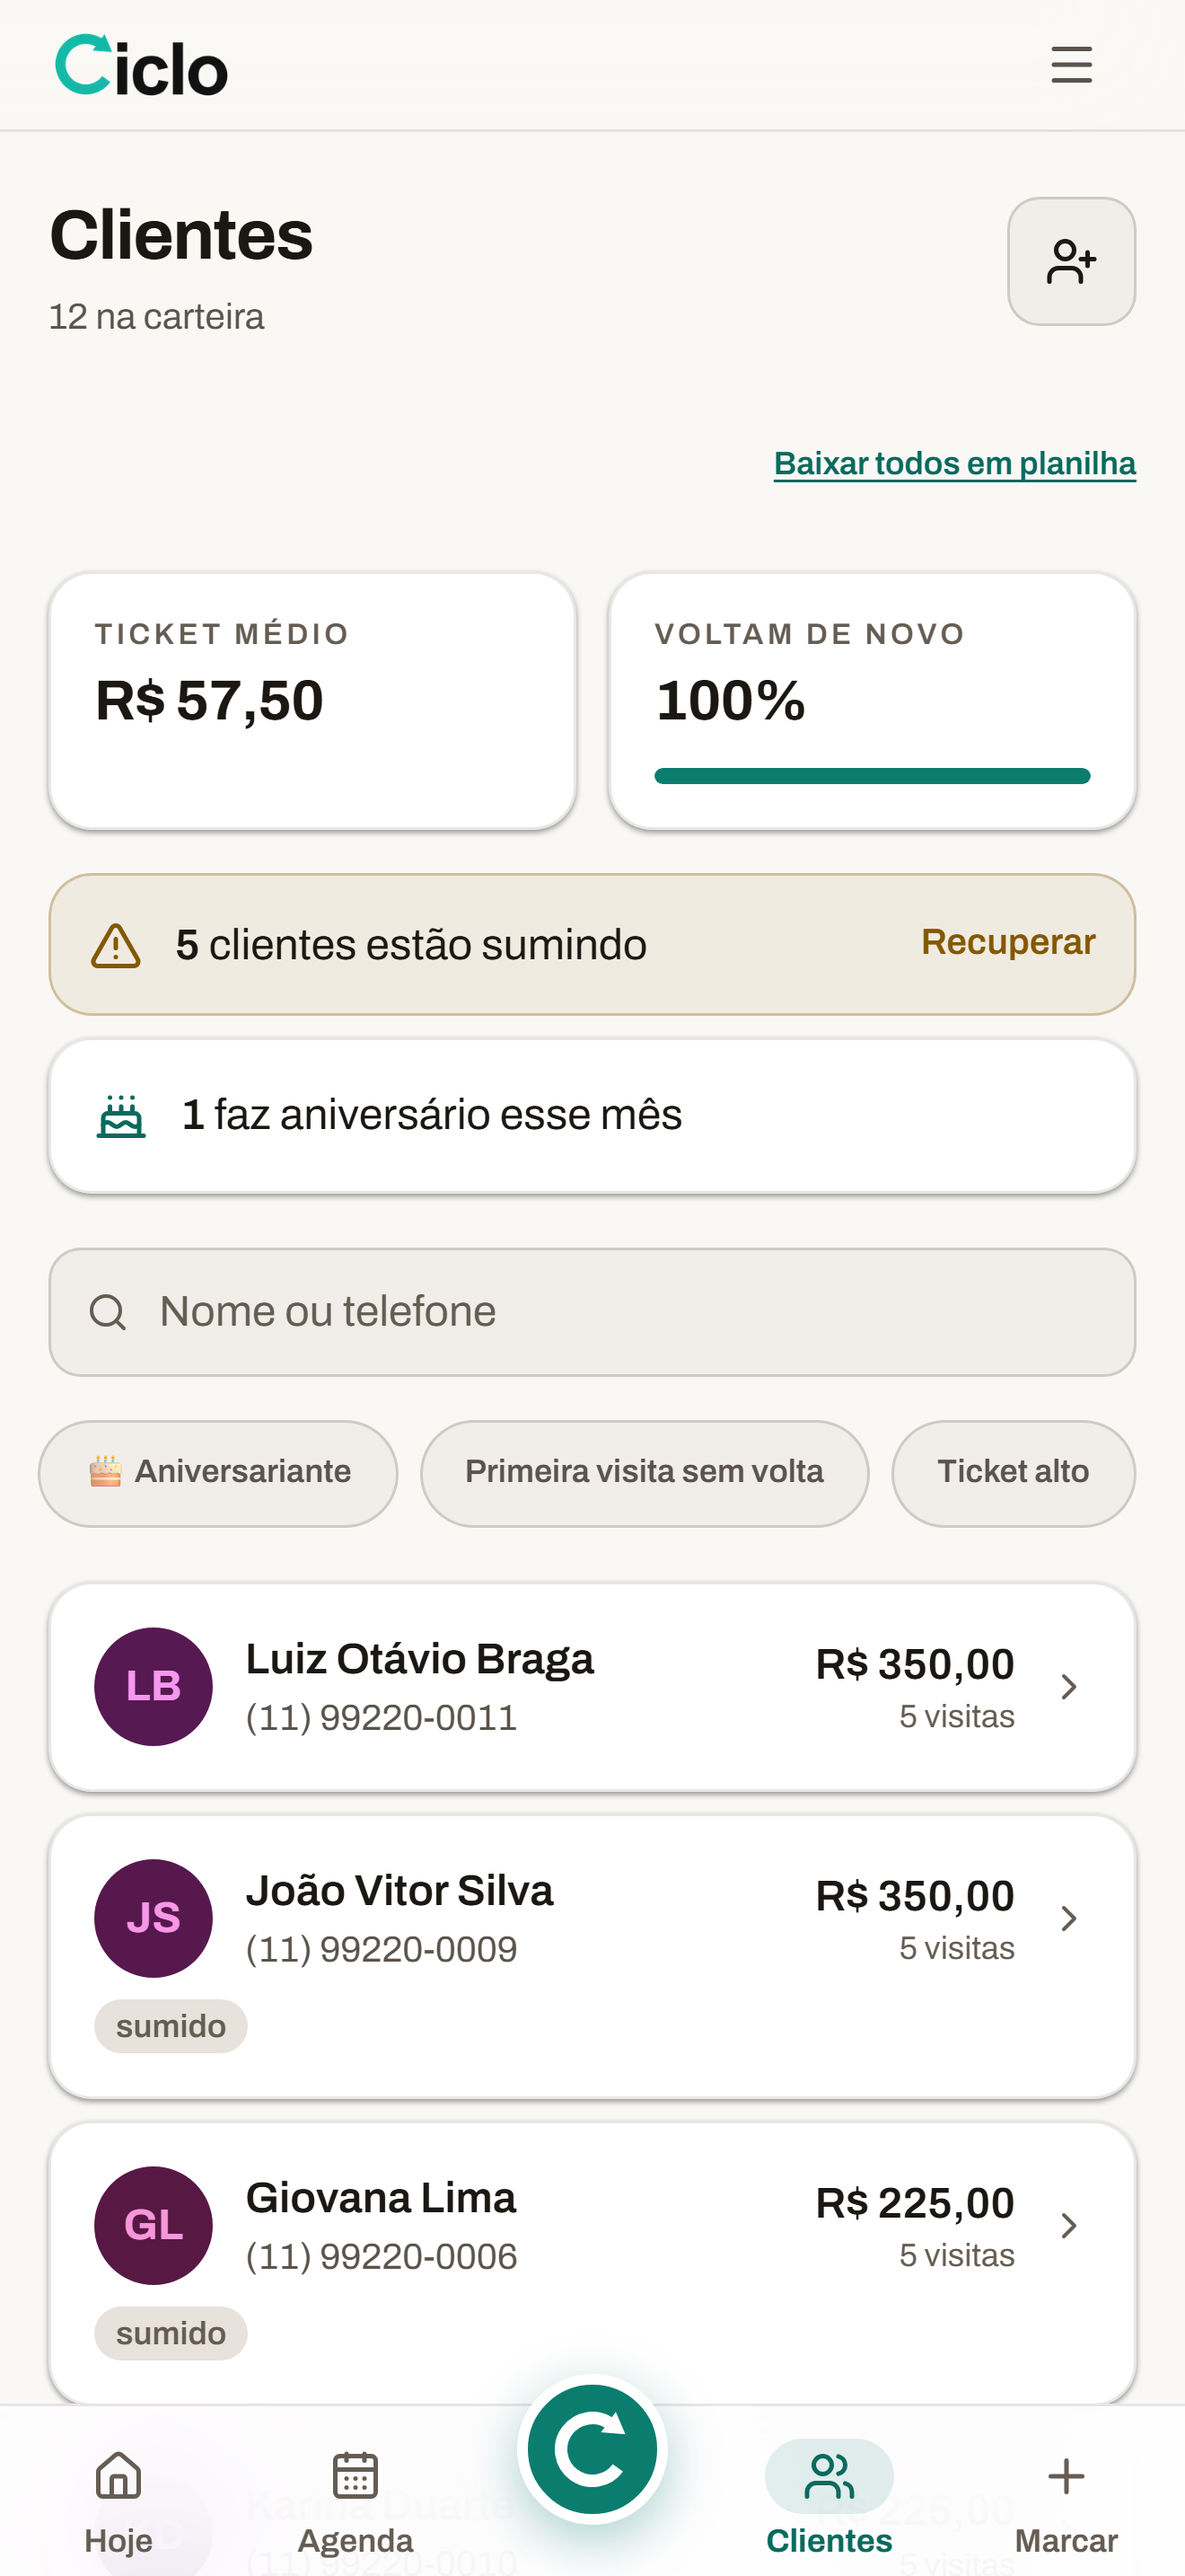
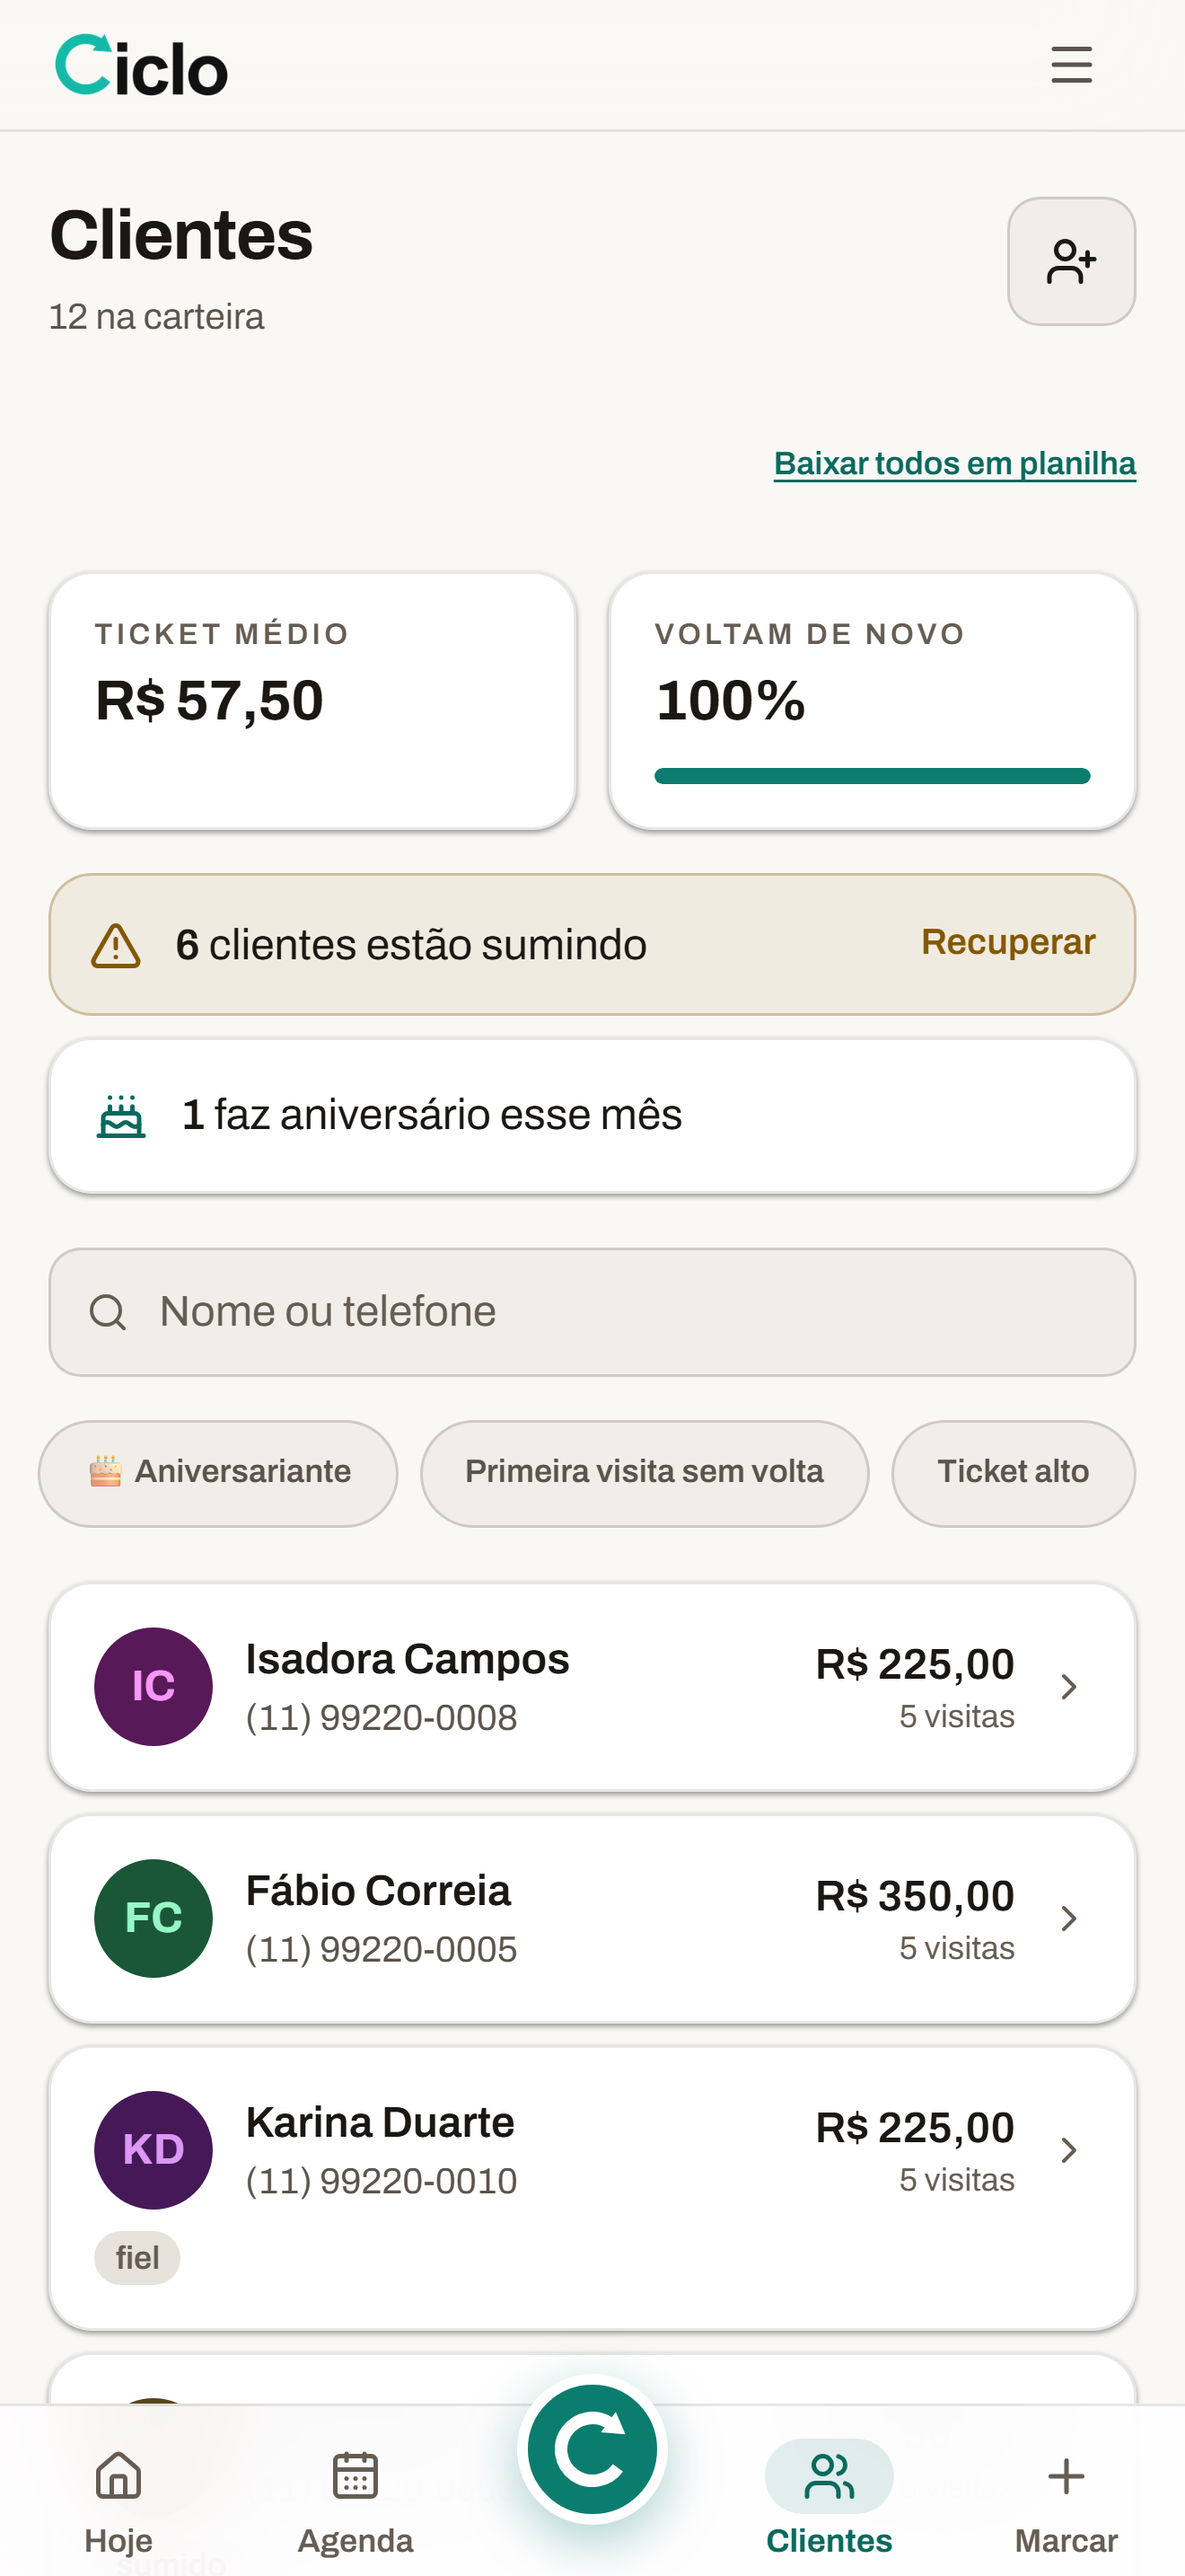
docs(98): imagens da loja refeitas de dia com a semente corrigida

diff --git a/docs/98-aprimoramento/13-material-de-envio-lojas.md b/docs/98-aprimoramento/13-material-de-envio-lojas.md
@@ -94,7 +94,7 @@ Geradas do build de produção desta branch, com um negócio fictício do banco 
 
 As imagens mostram só o que a conta do revisor também mostra (regra 2.3).
 
-**Estado em 15/10 (rascunho, não é a versão final):** geradas com o ensaio completo da seção 6 num Supabase local **isolado** com o esquema da `main` (o banco local compartilhado está 21 migrations à frente e quebrava o Motor). Hoje mostra "3 clientes estão sumindo" e Recuperar mostra a fila. Para a versão final: capturar **de dia** (à noite aparece "Boa noite" e "Nada marcado para hoje"), preencher o custo dos serviços (some o aviso "6 serviços estão sem o custo") (a semente foi corrigida no #151: agora há cliente em cada estado do Motor, e o Recuperar mostra 7 pessoas e R$ 202,65; era R$ 10,80 com três perdidos).
+**Estado em 16/10, de manhã:** refeitas com a semente corrigida (Hoje e Agenda com 3 atendimentos, Recuperar com 7 pessoas e R$ 226,50, profissional "Rafael Costa"). Falta só a ficha técnica dos serviços para sumir o aviso de material. Histórico: geradas com o ensaio completo da seção 6 num Supabase local **isolado** com o esquema da `main` (o banco local compartilhado está 21 migrations à frente e quebrava o Motor). Hoje mostra "3 clientes estão sumindo" e Recuperar mostra a fila. Para a versão final: capturar **de dia** (à noite aparece "Boa noite" e "Nada marcado para hoje"), preencher o custo dos serviços (some o aviso "6 serviços estão sem o custo") (a semente foi corrigida no #151: agora há cliente em cada estado do Motor, e o Recuperar mostra 7 pessoas e R$ 202,65; era R$ 10,80 com três perdidos).
 
 ## 6. Preparar a conta do revisor (LOJA-54), na véspera de cada envio
 
